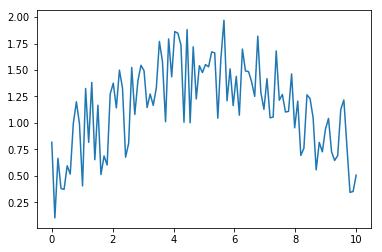
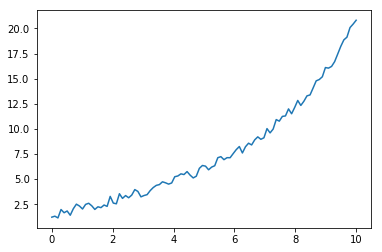
Updates

diff --git a/units/S01E04.html b/units/S01E04.html
@@ -29,9 +29,9 @@
   "headline":
     "Warning cells",
   "datePublished":
-    "2019-03-14T15:39:39+00:00",
+    "2019-03-14T15:46:59+00:00",
   "dateModified":
-    "2019-03-14T15:39:39+00:00",
+    "2019-03-14T15:46:59+00:00",
   "description":
     "",
   "author": {
@@ -731,7 +731,7 @@ initFunction(initQuery);
 <span class="kn">import</span> <span class="nn">matplotlib.pyplot</span> <span class="k">as</span> <span class="n">plt</span>
 <span class="o">%</span><span class="n">matplotlib</span> <span class="n">inline</span>
 
-<span class="n">plt</span><span class="o">.</span><span class="n">plot</span><span class="p">(</span><span class="n">np</span><span class="o">.</span><span class="n">linspace</span><span class="p">(</span><span class="mi">0</span><span class="p">,</span><span class="mi">10</span><span class="p">,</span><span class="mi">100</span><span class="p">),</span><span class="n">np</span><span class="o">.</span><span class="n">random</span><span class="o">.</span><span class="n">random</span><span class="p">(</span><span class="mi">100</span><span class="p">)</span><span class="o">+</span><span class="n">np</span><span class="o">.</span><span class="n">sin</span><span class="p">(</span><span class="n">np</span><span class="o">.</span><span class="n">linspace</span><span class="p">(</span><span class="mi">0</span><span class="p">,</span><span class="mi">3</span><span class="p">,</span><span class="mi">100</span><span class="p">)))</span>
+<span class="n">plt</span><span class="o">.</span><span class="n">plot</span><span class="p">(</span><span class="n">np</span><span class="o">.</span><span class="n">linspace</span><span class="p">(</span><span class="mi">0</span><span class="p">,</span><span class="mi">10</span><span class="p">,</span><span class="mi">100</span><span class="p">),</span><span class="n">np</span><span class="o">.</span><span class="n">random</span><span class="o">.</span><span class="n">random</span><span class="p">(</span><span class="mi">100</span><span class="p">)</span><span class="o">+</span><span class="n">np</span><span class="o">.</span><span class="n">sin</span><span class="p">(</span><span class="n">np</span><span class="o">.</span><span class="n">linspace</span><span class="p">(</span><span class="mi">0</span><span class="p">,</span><span class="mi">3</span><span class="p">,</span><span class="mi">100</span><span class="p">))</span><span class="o">+</span><span class="n">np</span><span class="o">.</span><span class="n">exp</span><span class="p">(</span><span class="n">np</span><span class="o">.</span><span class="n">linspace</span><span class="p">(</span><span class="mi">0</span><span class="p">,</span><span class="mi">3</span><span class="p">,</span><span class="mi">100</span><span class="p">)))</span>
 <span class="n">plt</span><span class="o">.</span><span class="n">show</span><span class="p">()</span>
 </code></pre></div></div>
 

diff --git a/search.html b/search.html
@@ -29,9 +29,9 @@
   "headline":
     "Search the site",
   "datePublished":
-    "2019-03-14T15:39:39+00:00",
+    "2019-03-14T15:46:59+00:00",
   "dateModified":
-    "2019-03-14T15:39:39+00:00",
+    "2019-03-14T15:46:59+00:00",
   "description":
     "course course-materials geography remote-sensing marburg-open-educational-resource  physical-geography environmental-science python",
   "author": {
@@ -727,7 +727,7 @@ initFunction(initQuery);
         "title": "Warning cells",
         
         "excerpt":
-            " Session 4 - warning cells       this is a warning cell         this is a info cell         this is a danger cell         Task:         Let Python calculate the sum of 44 and 124 and divide the result by 76 (all in one line). What is your result?     Let Python calculate the product of 0.3 and 3. Is the result what you expected?       import numpy as np import matplotlib.pyplot as plt %matplotlib inline  plt.plot(np.linspace(0,10,100),np.random.random(100)+np.sin(np.linspace(0,3,100))) plt.show()      x = 15 print(x)   15   ",
+            " Session 4 - warning cells       this is a warning cell         this is a info cell         this is a danger cell         Task:         Let Python calculate the sum of 44 and 124 and divide the result by 76 (all in one line). What is your result?     Let Python calculate the product of 0.3 and 3. Is the result what you expected?       import numpy as np import matplotlib.pyplot as plt %matplotlib inline  plt.plot(np.linspace(0,10,100),np.random.random(100)+np.sin(np.linspace(0,3,100))+np.exp(np.linspace(0,3,100))) plt.show()      x = 15 print(x)   15   ",
         "categories": [],
         "tags": [],
         "url": "https://python-kurs.github.io/sommersemester_2019/units/S01E04.html",

diff --git a/content/intro.html b/content/intro.html
@@ -29,9 +29,9 @@
   "headline":
     "Lecturers",
   "datePublished":
-    "2019-03-14T15:39:39+00:00",
+    "2019-03-14T15:46:59+00:00",
   "dateModified":
-    "2019-03-14T15:39:39+00:00",
+    "2019-03-14T15:46:59+00:00",
   "description":
     "course course-materials geography remote-sensing marburg-open-educational-resource  physical-geography environmental-science python",
   "author": {

diff --git a/content/units/units.html b/content/units/units.html
@@ -29,9 +29,9 @@
   "headline":
     "Syllabus",
   "datePublished":
-    "2019-03-14T15:39:39+00:00",
+    "2019-03-14T15:46:59+00:00",
   "dateModified":
-    "2019-03-14T15:39:39+00:00",
+    "2019-03-14T15:46:59+00:00",
   "description":
     "course course-materials geography remote-sensing marburg-open-educational-resource  physical-geography environmental-science python",
   "author": {

diff --git a/units/S01E03.html b/units/S01E03.html
@@ -29,9 +29,9 @@
   "headline":
     "Python Basics III",
   "datePublished":
-    "2019-03-14T15:39:39+00:00",
+    "2019-03-14T15:46:59+00:00",
   "dateModified":
-    "2019-03-14T15:39:39+00:00",
+    "2019-03-14T15:46:59+00:00",
   "description":
     "",
   "author": {

diff --git a/units/S01E02.html b/units/S01E02.html
@@ -29,9 +29,9 @@
   "headline":
     "Python Basics II",
   "datePublished":
-    "2019-03-14T15:39:39+00:00",
+    "2019-03-14T15:46:59+00:00",
   "dateModified":
-    "2019-03-14T15:39:39+00:00",
+    "2019-03-14T15:46:59+00:00",
   "description":
     "",
   "author": {

diff --git a/units/units.html b/units/units.html
@@ -29,9 +29,9 @@
   "headline":
     "Syllabus",
   "datePublished":
-    "2019-03-14T15:39:39+00:00",
+    "2019-03-14T15:46:59+00:00",
   "dateModified":
-    "2019-03-14T15:39:39+00:00",
+    "2019-03-14T15:46:59+00:00",
   "description":
     "Syllabus",
   "author": {

diff --git a/units/S01E01.html b/units/S01E01.html
@@ -29,9 +29,9 @@
   "headline":
     "Python Basics I",
   "datePublished":
-    "2019-03-14T15:39:39+00:00",
+    "2019-03-14T15:46:59+00:00",
   "dateModified":
-    "2019-03-14T15:39:39+00:00",
+    "2019-03-14T15:46:59+00:00",
   "description":
     "",
   "author": {

diff --git a/intro.html b/intro.html
@@ -29,9 +29,9 @@
   "headline":
     "Orga",
   "datePublished":
-    "2019-03-14T15:39:39+00:00",
+    "2019-03-14T15:46:59+00:00",
   "dateModified":
-    "2019-03-14T15:39:39+00:00",
+    "2019-03-14T15:46:59+00:00",
   "description":
     "Lecturers",
   "author": {

diff --git a/motivation.html b/motivation.html
@@ -29,9 +29,9 @@
   "headline":
     "Motivation",
   "datePublished":
-    "2019-03-14T15:39:39+00:00",
+    "2019-03-14T15:46:59+00:00",
   "dateModified":
-    "2019-03-14T15:39:39+00:00",
+    "2019-03-14T15:46:59+00:00",
   "description":
     "",
   "author": {
